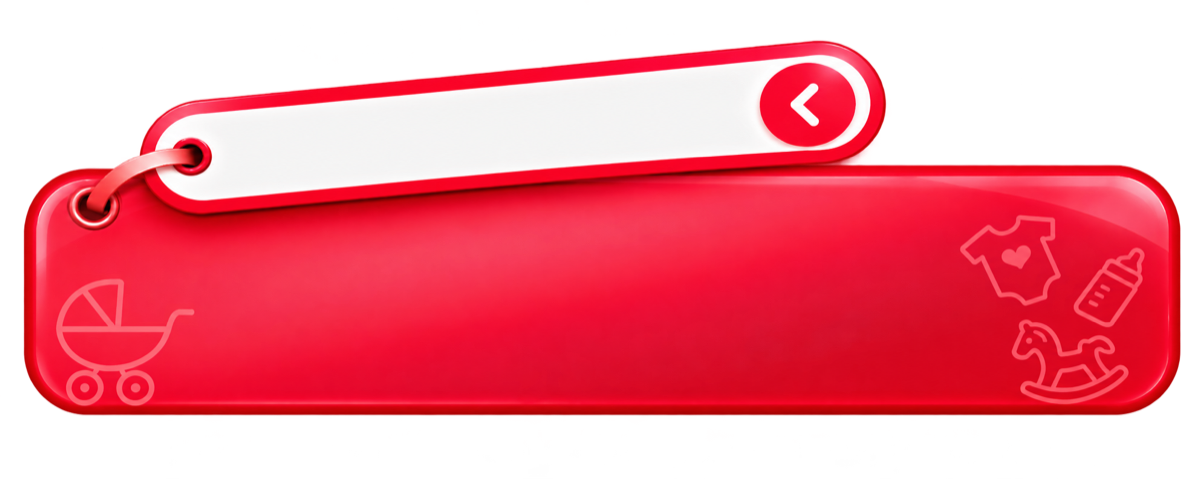
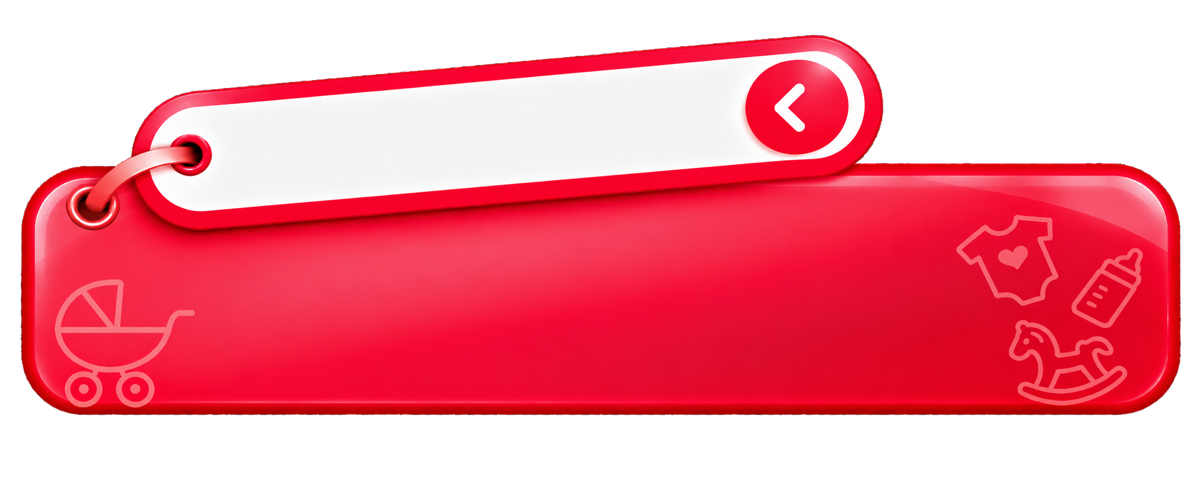
Story: card art with a taller tag, so an Instagram link sticker fits on it

diff --git a/src/lib/storyImage.js b/src/lib/storyImage.js
@@ -468,7 +468,7 @@ function drawPriceBar(ctx, { edge, fromRight, y, price, family }) {
 // price area (x, y), and the tag's tilt in degrees and the room for the price.
 const CARD_ART = {
   src: "/story-card.png",
-  card: [24, 166, 1155, 248],
+  card: [21, 163, 1159, 251],
   price: [489, 130, -4.67, 440],
 };
 
